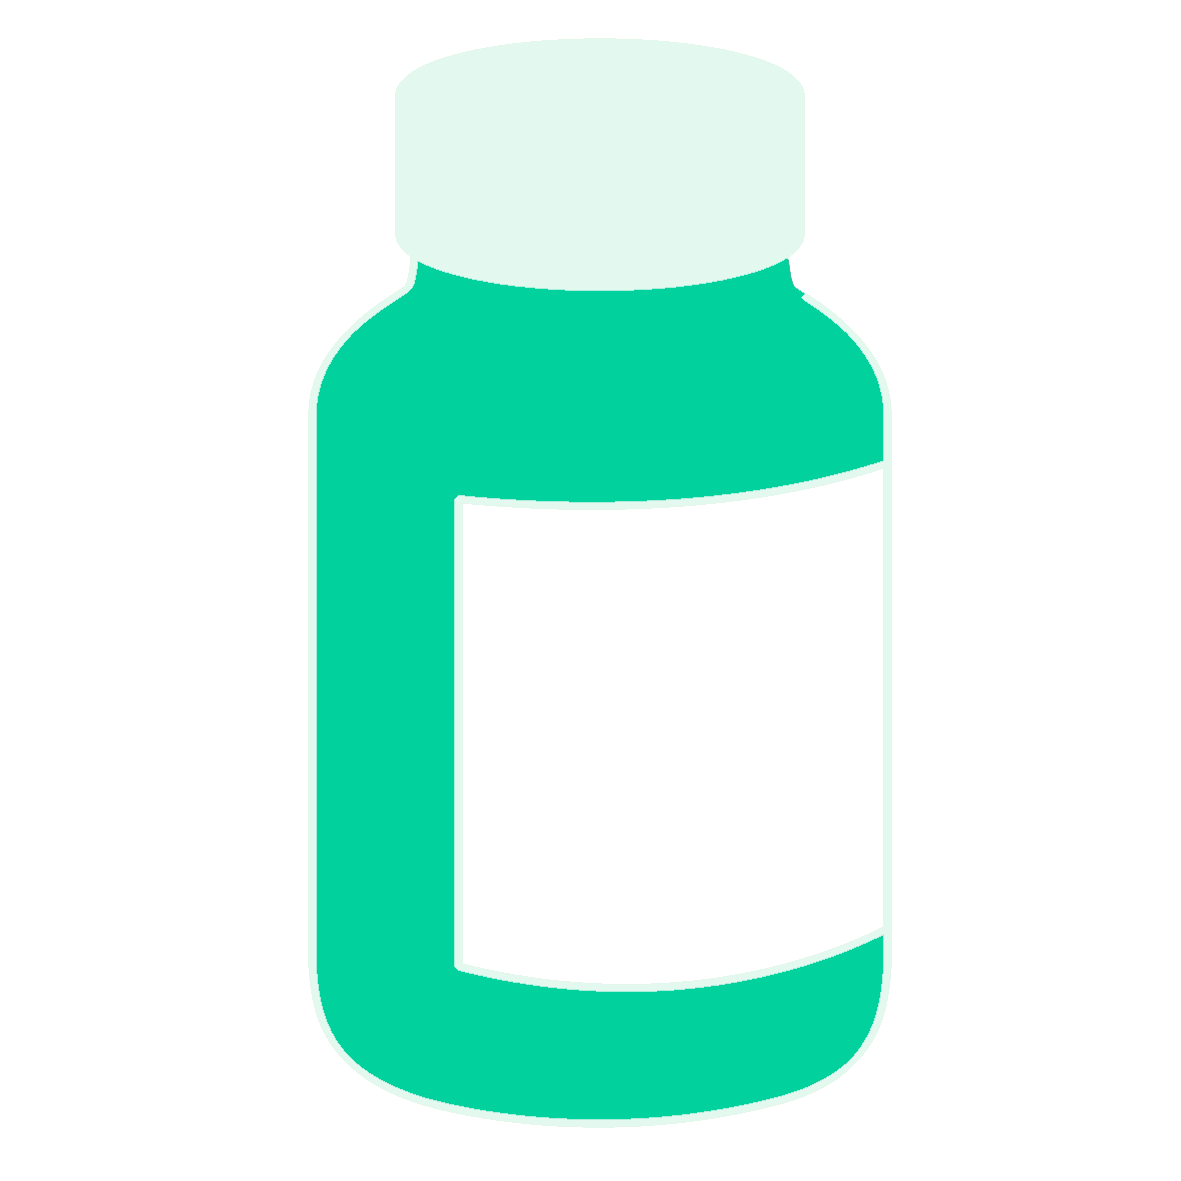
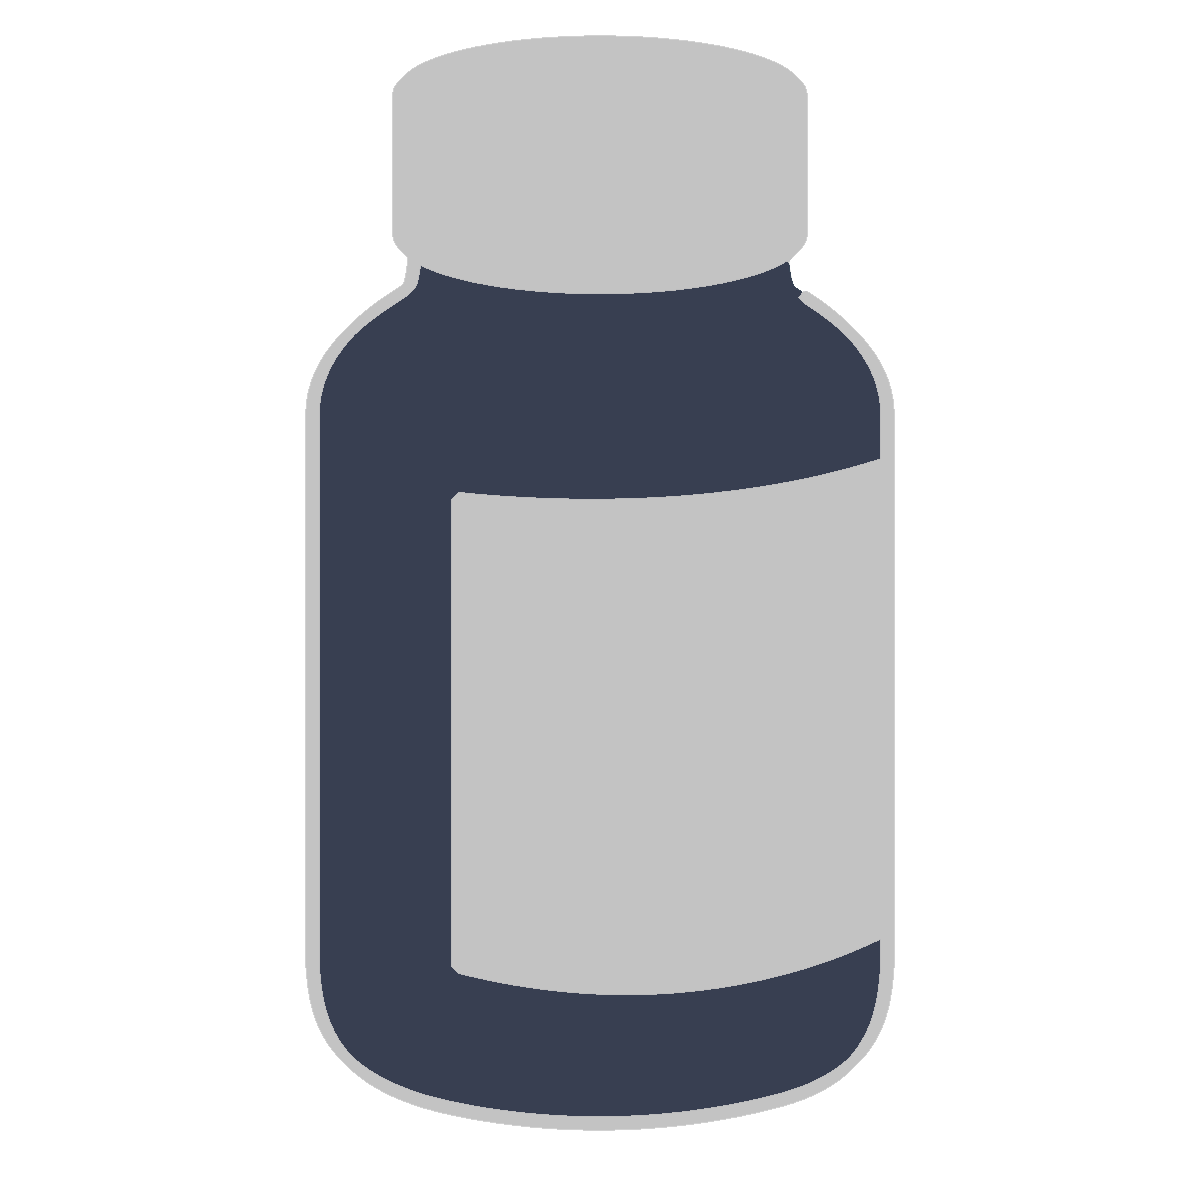
add_medicine_name_and_type

diff --git a/lib/widgets/notification_setting_widget.dart b/lib/widgets/notification_setting_widget.dart
@@ -29,49 +29,47 @@ class _NotificationsSettingsElementState
       child: SizedBox(
         width: widget.size.width,
         height: 100,
-        child: Container(
-          child: Padding(
-            padding: const EdgeInsets.symmetric(horizontal: 12),
-            child: Row(
-              mainAxisAlignment: MainAxisAlignment.spaceBetween,
-              children: [
-                Column(
-                  crossAxisAlignment: CrossAxisAlignment.start,
-                  children: [
-                    const SizedBox(
-                      height: 20,
+        child: Padding(
+          padding: const EdgeInsets.symmetric(horizontal: 12),
+          child: Row(
+            mainAxisAlignment: MainAxisAlignment.spaceBetween,
+            children: [
+              Column(
+                crossAxisAlignment: CrossAxisAlignment.start,
+                children: [
+                  const SizedBox(
+                    height: 20,
+                  ),
+                  Text(
+                    widget.title,
+                    style: const TextStyle(
+                      fontSize: 18,
+                      fontWeight: FontWeight.bold,
                     ),
-                    Text(
-                      widget.title,
-                      style: const TextStyle(
-                        fontSize: 18,
-                        fontWeight: FontWeight.bold,
-                      ),
+                  ),
+                  const SizedBox(
+                    height: 12,
+                  ),
+                  Text(
+                    widget.subTitle,
+                    style: const TextStyle(
+                      fontSize: 15,
+                      color: Colors.grey,
                     ),
-                    const SizedBox(
-                      height: 12,
-                    ),
-                    Text(
-                      widget.subTitle,
-                      style: const TextStyle(
-                        fontSize: 15,
-                        color: Colors.grey,
-                      ),
-                    ),
-                  ],
-                ),
-                if (widget.checkBox)
-                  Checkbox(
-                      checkColor: customColor5,
-                      fillColor: MaterialStateProperty.resolveWith(getColor),
-                      value: isChecked,
-                      onChanged: (bool? valueKey) {
-                        setState(() {
-                          isChecked = valueKey!;
-                        });
-                      })
-              ],
-            ),
+                  ),
+                ],
+              ),
+              if (widget.checkBox)
+                Checkbox(
+                    checkColor: customColor5,
+                    fillColor: MaterialStateProperty.resolveWith(getColor),
+                    value: isChecked,
+                    onChanged: (bool? valueKey) {
+                      setState(() {
+                        isChecked = valueKey!;
+                      });
+                    })
+            ],
           ),
         ),
       ),

diff --git a/lib/constants.dart b/lib/constants.dart
@@ -1,19 +1,23 @@
 import 'package:flutter/material.dart';
 Color blueColor=const Color(0xff1cb7d1);
 Color redColor=const Color(0xfffb8574);
+Color darkBlue=const Color(0xff3C4F76);
+Color lightBlack=const Color(0xff383F51);
+Color lightPurple=const Color(0xffDDDBF1);
+//00d19d
 Color customColor=const Color(0xff31275c);
 Color customColor1=const Color(0xff443472);
 Color customColor2=const Color(0xff70609f);
 Color customColor3=const Color(0xff938acb);
-//00d19d
 Color customColor4=const Color(0xffa8a8e6);
 Color customColor5=const Color(0xffdedffd);
-List<Map> details=[{"name":'seringa','nextDose':'10:00',"imagesList":'assets/p1.png'}
-,{"name":'pills','nextDose':'12:00',"imagesList":'assets/p2.png'},
-{"name":'Marivan','nextDose':'04:00',"imagesList":'assets/p3.png'},
-{"name":'Asthma device','nextDose':'06:00',"imagesList":'assets/p4.png'},
-{"name":'collyrium','nextDose':'08:00',"imagesList":'assets/p5.png'}
- // ,{"name":'sachet','nextDose':'12:00',"imagesList":'assets/p6.png'},
+List<Map> details=[{"name":'حقن','nextDose':'10:00',"imagesList":'assets/p1.png'}
+,{"name":'اقراص','nextDose':'12:00',"imagesList":'assets/p2.png'},
+{"name":'شراب','nextDose':'04:00',"imagesList":'assets/p3.png'},
+{"name":'بخاخ','nextDose':'06:00',"imagesList":'assets/p4.png'},
+{"name":'نقط','nextDose':'08:00',"imagesList":'assets/p5.png'}
+,{"name":'فوار','nextDose':'12:00',"imagesList":'assets/p6.png'},
+{"name":'مرهم','nextDose':'12:00',"imagesList":'assets/p7.png'},
 ];
 
 List<String> textList=['تطبيق دوائي يسمح لك بعمل جدول لمواعيد دوائك و يرسل لك اشعارات في هذه المواعيد كما يرسل '
@@ -27,3 +31,4 @@ TextStyle greyTextStyle=const TextStyle(fontSize: 20,color: Colors.black45,fontW
 //problem
 //1.on date selection today day show white circle
 //2.when pressing MedicineDetails Directionality eng
+//3. note that type ==> index-1 when you add image to hive

diff --git a/lib/pages/add_medicine.dart b/lib/pages/add_medicine.dart
@@ -1,7 +1,7 @@
 import 'package:flutter/material.dart';
 import 'package:flutter/services.dart';
-
 import '../widgets/add_medicine_container.dart';
+import '../widgets/medicine_type_listview.dart';
 import '../widgets/text_field.dart';
 class AddMedicine extends StatelessWidget {
   const AddMedicine({Key? key}) : super(key: key);
@@ -12,17 +12,22 @@ class AddMedicine extends StatelessWidget {
       backgroundColor: Colors.white,
       body: Column(
           children: [
-            Padding(
-              padding: const EdgeInsets.all(8.0),
-              child: Text("إضافة دواء",style: Theme.of(context).textTheme.headlineMedium,),
+            const Padding(
+              padding:  EdgeInsets.only(top: 8.0),
+              child: Text("إضافة دواء",style:TextStyle(color:Color(0xff3C4F76) ,fontSize: 30),),
             ),
             AddMedicineContainer(
               column: Column(
                 crossAxisAlignment: CrossAxisAlignment.start,
                 children: [
                   Text("اسم الدواء",style: Theme.of(context).textTheme.titleLarge),
-                  SizedBox(child: CustomTextField(filteringTextInputFormatter: FilteringTextInputFormatter.allow(RegExp("[a-z A-Z 0-9 \u0621-\u064A0-9 ]")),
-                      keyboardType:TextInputType.text,hintText:"اكتب اسم الدواء")),
+                  CustomTextField(filteringTextInputFormatter: FilteringTextInputFormatter.allow(RegExp("[a-z A-Z 0-9 \u0621-\u064A0-9 ]")),
+                      keyboardType:TextInputType.text,hintText:"اكتب اسم الدواء"),
+                  Text("نوع الدواء",style: Theme.of(context).textTheme.titleLarge),
+                  const SizedBox(
+                    height:100,
+                    child: TypesListView(),
+                  ),
                 ],
               ),),
           ],

diff --git a/lib/widgets/medicine_type_listview.dart b/lib/widgets/medicine_type_listview.dart
@@ -17,13 +17,30 @@ class _TypesListViewState extends State<TypesListView> {
   Widget build(BuildContext context) {
     return ListView.builder(
         scrollDirection: Axis.horizontal,
-        itemCount:details.length,
+        itemCount:details.length+1,
         itemBuilder: (context, index) => Padding(
           padding: const EdgeInsets.all(8.0),
-          child: GestureDetector(onTap: (){setState(() {
+          child: index==0?
+          Container(
+            width:90,
+            decoration: const BoxDecoration(
+              color: Colors.black12,
+                borderRadius: BorderRadius.all(Radius.circular(15))
+            ),
+            child: IconButton(onPressed: (){} , icon: Column(
+              mainAxisAlignment:MainAxisAlignment.spaceEvenly,
+              children: const [
+                Icon(Icons.camera_alt,color: Colors.black26,),
+                Text("اضف صورة",style: TextStyle(color: Colors.black26),)
+              ],
+            ) ,),
+          )
+         :GestureDetector(onTap: (){setState(() {
       selectedIndex=index;
       categoryTapped=true;
-    });},child: MedicineTypesCard(image:details[index]['imagesList'], color: categoryTapped? (selectedIndex==index ? customColor2 :Colors.white) :Colors.white,)),
+    });},child: MedicineTypesCard(image:details[index-1]['imagesList'], color: categoryTapped?
+          (selectedIndex==index ?redColor :Colors.white) :Colors.white,
+          text:details[index-1]['name'] ,)),
         )
     );
   }

diff --git a/lib/widgets/card_medicine_type.dart b/lib/widgets/card_medicine_type.dart
@@ -1,7 +1,8 @@
 import 'package:flutter/material.dart';
 class MedicineTypesCard extends StatelessWidget {
-  const MedicineTypesCard({Key? key, required this.image, required this.color}) : super(key: key);
+  const MedicineTypesCard({Key? key, required this.image, required this.color, required this.text}) : super(key: key);
 final String image;
+final String text;
 final Color color;
   @override
   Widget build(BuildContext context) {
@@ -10,9 +11,11 @@ final Color color;
         borderRadius: BorderRadius.circular(15.0),
       ),elevation:7,
       color: color,
-       child:Padding(
-         padding: const EdgeInsets.all(8.0),
-         child: Image.asset(image),
+       child:Column(
+         children: [
+           Image.asset(image ,height:50,width: 100,),
+           Text(text)
+         ],
        ) ,
     );
   }

diff --git a/lib/main.dart b/lib/main.dart
@@ -29,13 +29,13 @@ class MyApp extends StatelessWidget {
       theme: ThemeData(
         primarySwatch: themeColor,
         inputDecorationTheme: InputDecorationTheme(
-          hintStyle:const TextStyle(fontWeight: FontWeight.bold,fontSize:15),
+          hintStyle:const TextStyle(fontSize:15,color: Colors.black26,fontWeight: FontWeight.bold),
           enabledBorder: OutlineInputBorder(
-            borderRadius: BorderRadius.circular(13),
+            borderRadius: BorderRadius.circular(5),
             borderSide: BorderSide( color: blueColor),
           ),
           focusedBorder: OutlineInputBorder(
-            borderRadius: BorderRadius.circular(13),
+            borderRadius: BorderRadius.circular(5),
             borderSide: BorderSide( color: blueColor),
           ),
         )

diff --git a/lib/widgets/text_field.dart b/lib/widgets/text_field.dart
@@ -9,13 +9,11 @@ class CustomTextField extends StatelessWidget {
   @override
   Widget build(BuildContext context) {
     return TextFormField(
-      textAlign: TextAlign.end,
       inputFormatters: <TextInputFormatter>[
         filteringTextInputFormatter,
       ],
       keyboardType: keyboardType,
       validator: (value) {
-        //if password length is less than 6 print weak password
         if (value == null || value.isEmpty) {
           return 'يجب ادخال قيمة';
         }
@@ -23,7 +21,6 @@ class CustomTextField extends StatelessWidget {
       },
       decoration: InputDecoration(
         hintText: hintText,
-        hintStyle: const TextStyle(fontSize: 10,fontWeight: FontWeight.bold)
       ),
     );
   }

diff --git a/lib/widgets/add_medicine_container.dart b/lib/widgets/add_medicine_container.dart
@@ -9,7 +9,8 @@ final Column column;
       padding: const EdgeInsets.all(12.0),
       decoration: BoxDecoration(
         color: Colors.white,
-        border: Border.all(color: Colors.black26),
+        border: Border.all(color: Colors.black12, width: 2),
+        borderRadius:const BorderRadius.all(Radius.circular(13)),
       ),
       child:column,
     );
